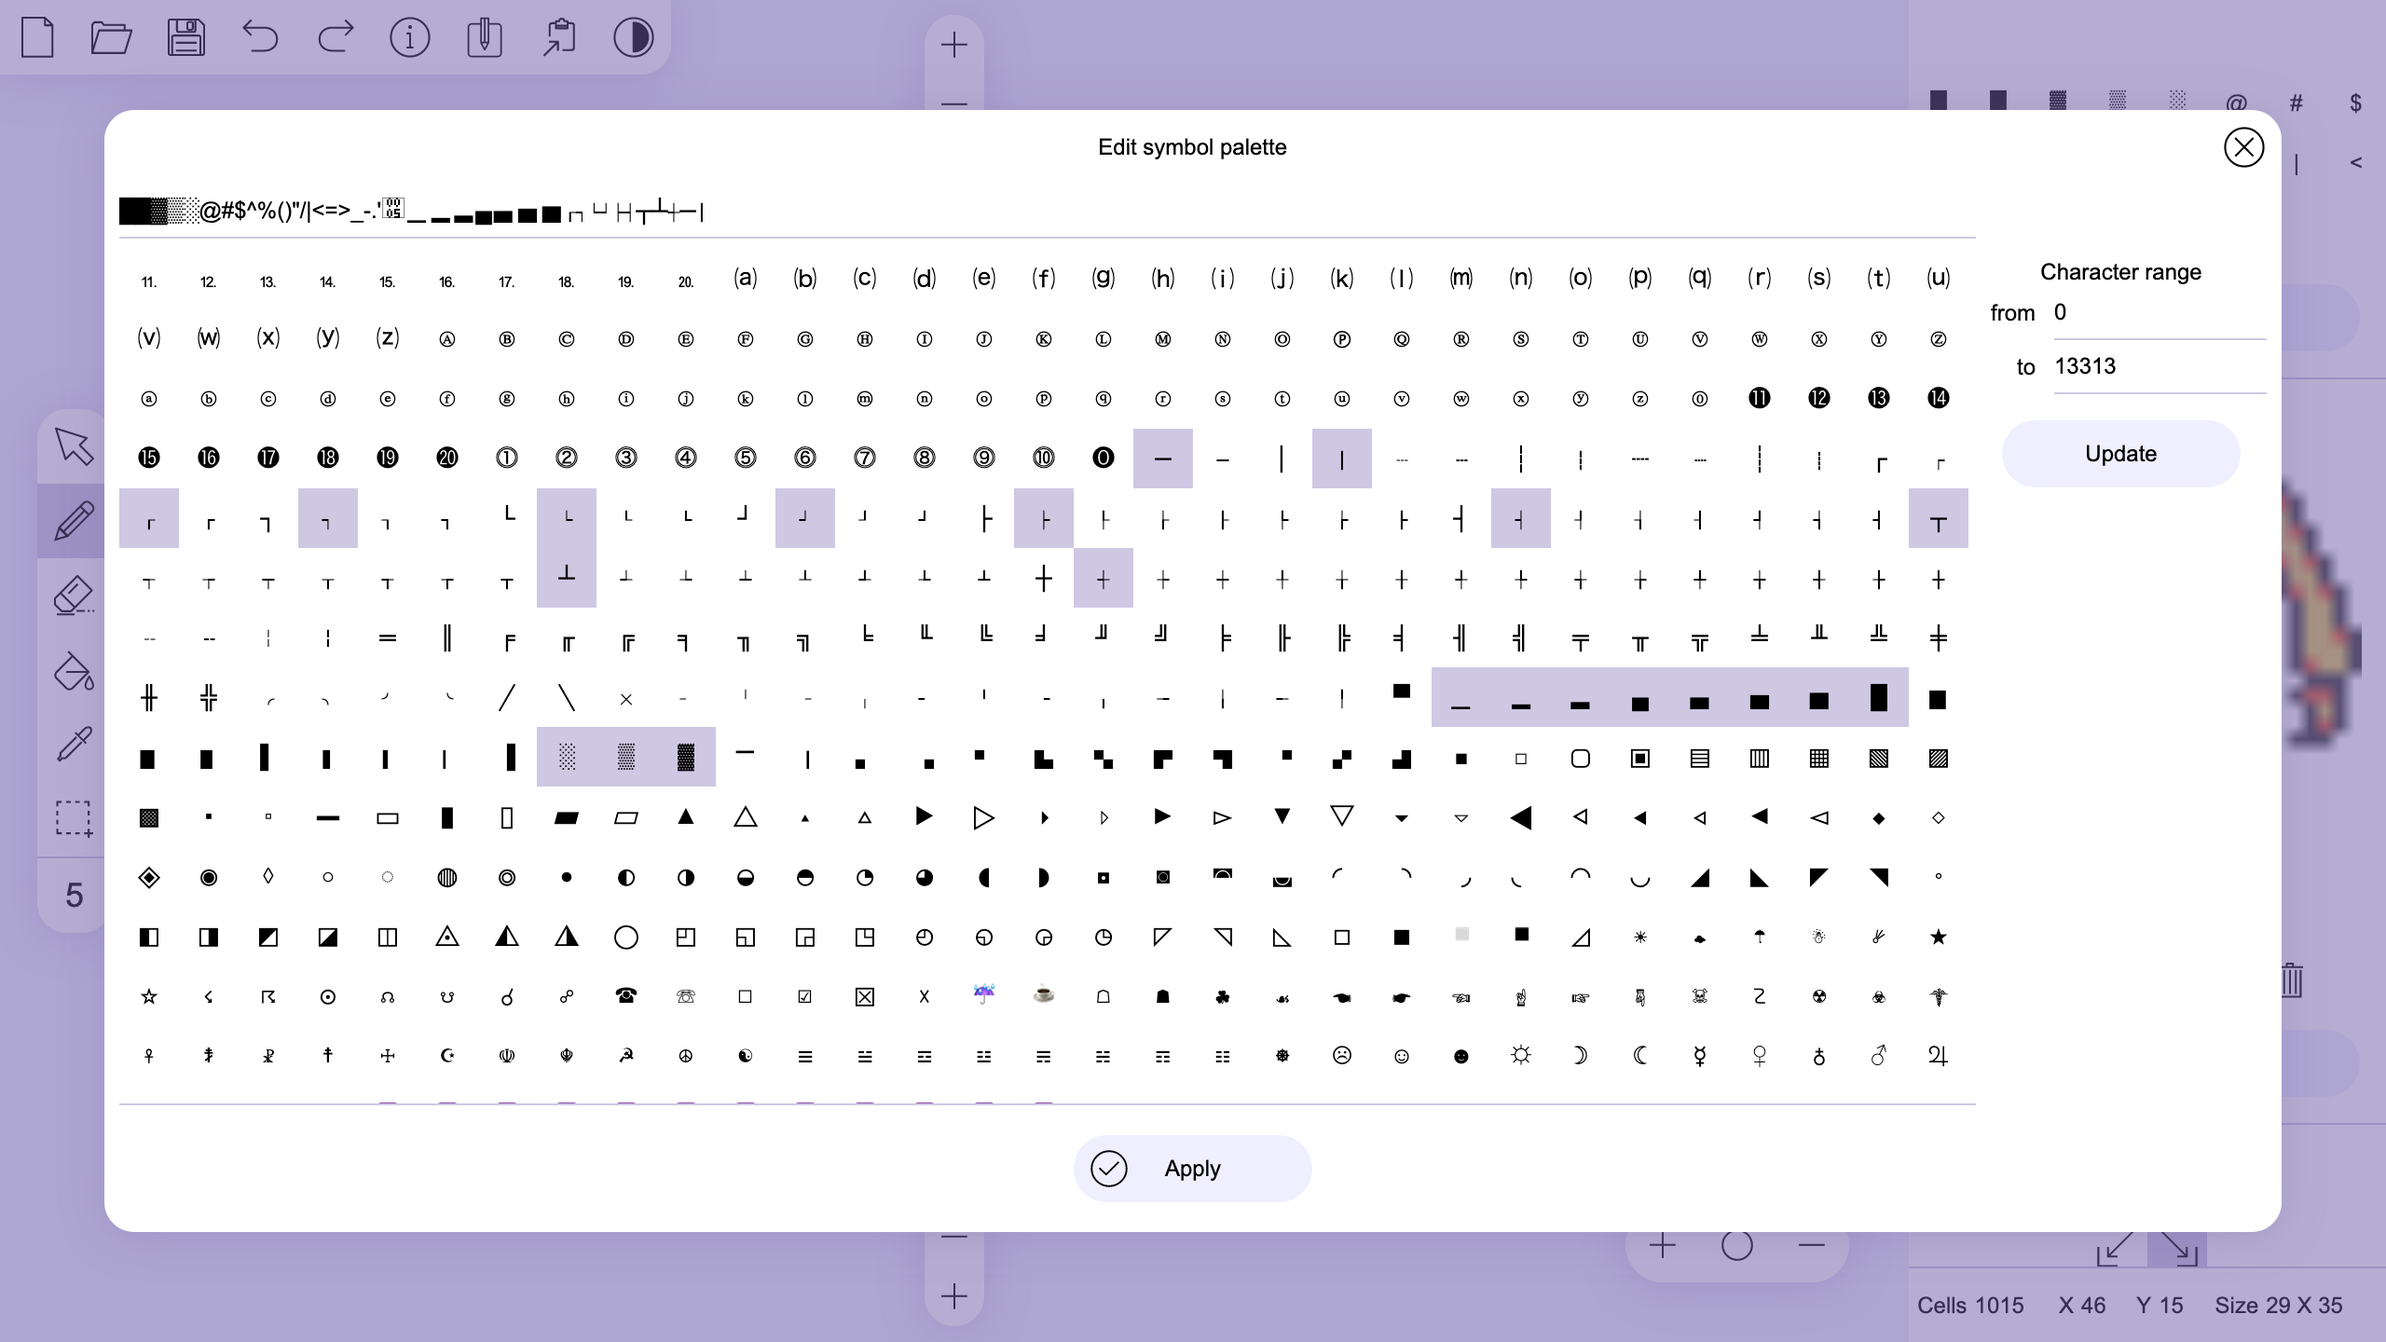
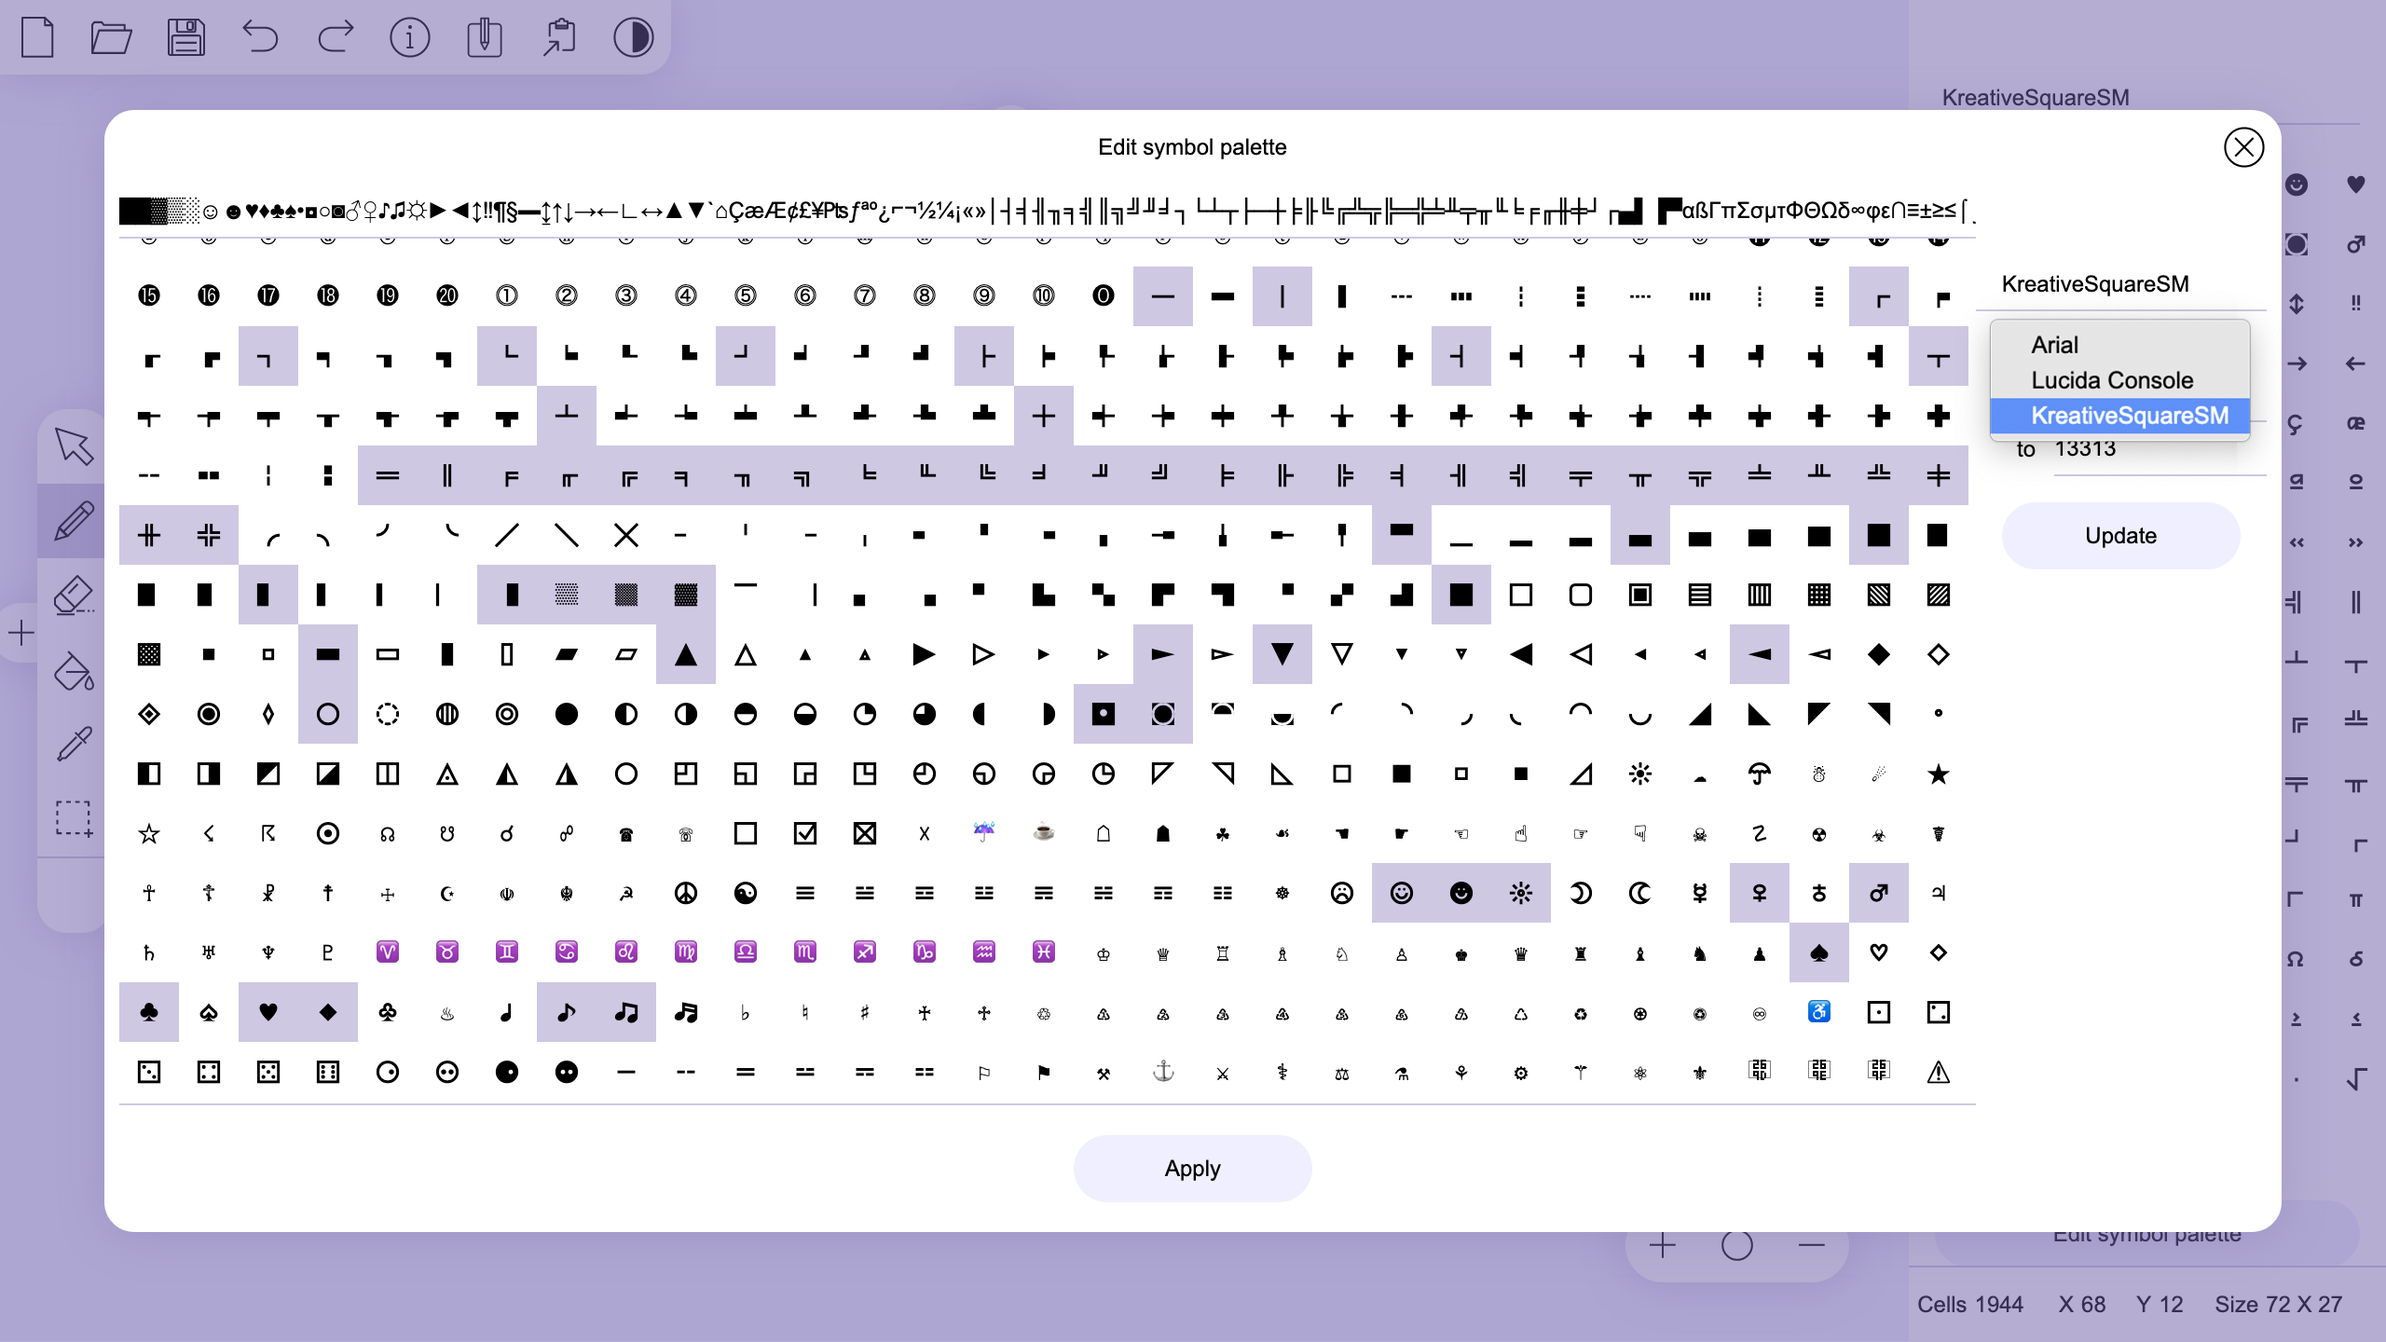
kirilllive

diff --git a/ascii_paint.html b/ascii_paint.html
@@ -32,6 +32,7 @@
     --ac:rgba(255,255,255,0.8);
     --at:rgba(240,240,240,0.8);
     --bh:#efefff;
+    --font:Arial;
 }
 .cls-2 {stroke:#000;stroke-width: 8px;}
 body{height:100vh;width:100vw;}
@@ -83,7 +84,7 @@ body{height:100vh;width:100vw;}
     border-width:1px;
     border-color:var(--at);
     background-color:var(--ac);
-    font-family:Lucida Console,monospace;
+    font-family:var(--font),monospace;
 }
 #asciicanvas td:hover{background-color:var(--cb);}
 #menu_panel{
@@ -154,6 +155,7 @@ body{height:100vh;width:100vw;}
     width:32px;
     display:grid;justify-content:center;align-items:center;
     float:left;
+    font-family:var(--font),monospace;
 }
 .symbol:hover{background-color:var(--cw);}
 .edittext{
@@ -236,6 +238,10 @@ body{height:100vh;width:100vw;}
 }
 #context_menu td{height:28px;padding-left:10px;}
 #context_menu td:hover{background-color:var(--cw);}
+input[type=range]{appearance:none;height:8px;background:var(--cw);outline:none;border-radius:8px;}
+input[type=range]::-webkit-slider-thumb{-webkit-appearance:none;appearance:none;width:20px;height:20px;border-radius:50%;background:var(--cb);cursor:pointer;border:3px solid var(--wn);}
+input[type=range]::-moz-range-thumb{-moz-appearance:none;appearance:none;width:16px;height:16px;border-radius:50%;background:var(--cb);cursor:pointer;border:3px solid var(--wn);}
+input[type=range]::-moz-range-progress{-moz-appearance:none;height:8px;background: var(--cb);outline:none;border-radius:8px;}
 </style>
 </head>
 <body onload="new_canvas(60,30);">
@@ -284,16 +290,24 @@ body{height:100vh;width:100vw;}
 </div>
 </td><td style="height:40px;background-color:var(--wn);"> </td></tr>
 <tr><td style="height:calc(100vh - 80px);">
-    <div id="right_menu" style="height:calc(100vh - 80px);width:256px;overflow-y:scroll;background-color:var(--wn);">
+    <div id="right_menu" style="height:calc(100vh - 80px);width:256px;overflow-y:scroll;background-color:var(--wn);text-align:center;">
+        <select id="fonts" class="input_text" style="width:calc(100% - 28px);margin-bottom:16px;" oninput='root_style.style.setProperty("--font",this.value);'>
+            <option value="Arial">Arial</option>
+            <option value="Lucida Console" selected>Lucida Console</option>
+        </select>
         <div id="symbols_view" style="display:inline-block;"></div>
         <div class="button" style="margin:14px;width:calc(100% - 28px);" onclick="modal_window(true,'palette_edit');getallChar()">Edit symbol palette</div>
         <div id="img_preview" style="display:none;width:100%;text-align:center;border-top:1px solid var(--cb);"><br>
-            <img style="width:90%;height:auto;border-radius:8px;text-align:center;cursor:pointer;image-rendering:pixelated;" onclick="file.click();"><br>
+            <img id="img_icon" style="width:90%;height:auto;border-radius:8px;text-align:center;cursor:pointer;image-rendering:pixelated;" onclick="file.click();"><br>
+            <div style="text-align:left;width:calc(100% - 28px);margin:14px 0 0 14px;">Brightness</div>
+            <input type="range" id="brightness" oninput="img_icon.style.filter='contrast('+contrast.value+'%) brightness('+this.value+'%)'" name="vol" min="0" max="500" value="100" step='1' style="margin:14px;width:calc(100% - 28px);">
+            <div style="text-align:left;width:calc(100% - 28px);margin-left:14px;">Contrast</div>
+            <input type="range" id="contrast" oninput="img_icon.style.filter='contrast('+this.value+'%) brightness('+brightness.value+'%)'" name="vol" min="0" max="500" value="100" step='1' style="margin:14px;width:calc(100% - 28px);">
             <table style="margin:14px;width:calc(100% - 28px);">
             <tbody>
                 <tr>
                     <td style="width:33%;" align="center"><input id="img_show" title="Show / Hide image" class="button_s show" checked onchange="frame.style.backgroundSize=(this.checked)?'100% 100%':'0% 0%'" type="checkbox"></td>
-                    <td style="" align="center"><div title="original image size" class="button_s icon_size" onclick="original_size();"></div></td>
+                    <td align="center"><div title="original image size" class="button_s icon_size" onclick="original_size();"></div></td>
                     <td style="width:33%;" align="center"><div title="Delete image" class="button_s icon_del" onclick="delete_img();"></div></td>
                 </tr>
             </tbody>
@@ -434,6 +448,9 @@ body{height:100vh;width:100vw;}
         <td><input type="text" class="input_text palette_simbols"></td>
         <td style="width:128px;" rowspan="3" valign="top">
         <table style="border-collapse: collapse; width: 100%; margin-top:40px;" border="1"><tbody><tr>
+        <td colspan="2" align="center">
+        <select id="fonts_palette" class="input_text" style="padding:0 10px;margin-bottom:16px;" oninput='root_style.style.setProperty("--font",this.value);'></select>
+        </td></tr>
         <td colspan="2" align="center">Character range</td></tr>
         <tr><td style="width:32px;padding-right:10px;" align="right">from</td>
         <td><input type="text" class="input_text range"></td></tr>
@@ -449,7 +466,7 @@ body{height:100vh;width:100vw;}
 <script>
 var range_font=[0,13313],palette="██▓▒░☺☻♥♦♣♠•◘○◙♂♀♪♫☼►◄↕‼¶§▬↨↑↓→←∟↔▲▼`⌂ÇæÆ¢£¥₧ƒªº¿⌐¬½¼¡«»│┤╡╢╖╕╣║╗╝╜╛┐└┴┬├─┼╞╟╚╔╩╦╠═╬╧╨╤╥╙╘╒╓╫╪┘┌▄▌▐▀αßΓπΣσµτΦΘΩδ∞φε∩≡±≥≤⌠⌡÷≈°∙⋅√ⁿ²■";//"██▓▒░@#$^%()\"/|<=>_-.'";
 var se,x1,x2,y1,y2;
-var db=[[],[],[],[],[],[],[],[]],tool=0,img,scale=1,back_up=[],state_num=0,tr,td,brush="*",frame=document.getElementById('asciicanvas'),canvas=frame.getElementsByTagName('tbody')[0],mouseclick=false,files=document.getElementById('file'),window_zone=document.getElementById("window_zone"),tool_zone=document.getElementById("tool_zone"),selected=[0,0,0,0],targetcell=[0,0],copydb="";
+var db=[[],[],[],[],[],[],[],[]],tool=0,img,scale=1,back_up=[],state_num=0,tr,td,brush="*",frame=document.getElementById('asciicanvas'),canvas=frame.getElementsByTagName('tbody')[0],mouseclick=false,files=document.getElementById('file'),window_zone=document.getElementById("window_zone"),tool_zone=document.getElementById("tool_zone"),selected=[0,0,0,0],targetcell=[0,0],copydb="",root_style=document.querySelector(':root');
 var contextmenushow=false,doc;
 if(asciicanvas.addEventListener){asciicanvas.addEventListener('contextmenu',function(e){menu_right(e);e.preventDefault();},false);}
 else{asciicanvas.attachEvent('oncontextmenu',function(){window.event.returnValue=false;});}
@@ -478,20 +495,18 @@ let color_ui=[
     ['#7f7f7f','#131a1e','rgba(0,0,0,0.5)','rgba(0,0,0,0.5)','#26343d','invert(90%)','#ddd','rgba(0,0,0,0.75)','rgba(25,25,25,0.7)','#b5a49b']
 ]
 function set_ui(t){
-    var r=document.querySelector(':root');
-    r.style.setProperty('--cb',color_ui[t][0]);
-    r.style.setProperty('--cw',color_ui[t][1]);
-    r.style.setProperty('--cs',color_ui[t][2]);
-    r.style.setProperty('--cm',color_ui[t][3]);
-    r.style.setProperty('--wn',color_ui[t][4]);
-    r.style.setProperty('--ft',color_ui[t][5]);
-    r.style.setProperty('--tx',color_ui[t][6]);
-    r.style.setProperty('--ac',color_ui[t][7]);
-    r.style.setProperty('--at',color_ui[t][8]);
-    r.style.setProperty('--bh',color_ui[t][9]);
+    root_style.style.setProperty('--cb',color_ui[t][0]);
+    root_style.style.setProperty('--cw',color_ui[t][1]);
+    root_style.style.setProperty('--cs',color_ui[t][2]);
+    root_style.style.setProperty('--cm',color_ui[t][3]);
+    root_style.style.setProperty('--wn',color_ui[t][4]);
+    root_style.style.setProperty('--ft',color_ui[t][5]);
+    root_style.style.setProperty('--tx',color_ui[t][6]);
+    root_style.style.setProperty('--ac',color_ui[t][7]);
+    root_style.style.setProperty('--at',color_ui[t][8]);
+    root_style.style.setProperty('--bh',color_ui[t][9]);
 }
 if(localStorage.getItem("them")){set_ui(1)}
-
 file.addEventListener('change',loadFiles);
 function canvas_scale(s){
     if(s==2){scale=Math.min(2,scale+0.05);}
@@ -581,13 +596,19 @@ function select_arr(){
     };
 }
 window.addEventListener("DOMContentLoaded", function(){
-    if (window.File&&window.FileReader&&window.FileList&&window.Blob) {
+    if (window.File&&window.FileReader&&window.FileList&&window.Blob){
         window.addEventListener("dragover",function(e){e.preventDefault();e.stopPropagation();});
         window.addEventListener("drop",function(e){
             e.preventDefault();
             e.stopPropagation();
             if(e.dataTransfer.files[0].type.includes("image")){
                 img=e.dataTransfer.files[0];show_img();
+            }else if(e.dataTransfer.files[0].name.includes(".ttf")||e.dataTransfer.files[0].name.includes(".woff2")||e.dataTransfer.files[0].name.includes(".woff")){
+                var n=e.dataTransfer.files[0].name.split('.',1);
+                root_style.style.setProperty("--font",n);
+                let font = new FontFace(n, "url("+URL.createObjectURL(e.dataTransfer.files[0])+")");
+                font.load().then(function(loadedFont){document.fonts.add(loadedFont);}).catch(function(error){});
+                add_font(n);
             }else{
                 var xmlhttp=new XMLHttpRequest();
                 xmlhttp.onreadystatechange=function(){if(this.readyState==4&&(this.status === 200 || this.status == 0)){db=this.responseText.split("\n");buildWorld();asciiview.scrollIntoView({block: "center",inline: "center"});back_up=[];state_save();toast(e.dataTransfer.files[0].name+' file is open')}}
@@ -597,10 +618,17 @@ window.addEventListener("DOMContentLoaded", function(){
             };
         });
     }
+    fonts.selectedIndex=0;
 });
 function loadFiles(e){
     if(e.target.files[0].type.includes("image")){
         img=e.target.files[0];show_img();
+    }else if(e.target.files[0].name.includes(".ttf")||e.target.files[0].name.includes(".woff2")||e.target.files[0].name.includes(".woff")){
+        var n=e.target.files[0].name.split('.',1);
+        root_style.style.setProperty("--font",n);
+        let font = new FontFace(n, "url("+URL.createObjectURL(e.target.files[0])+")");
+        font.load().then(function(loadedFont){document.fonts.add(loadedFont);}).catch(function(error){});
+        add_font(n);
     }else{
         var xmlhttp=new XMLHttpRequest();
         xmlhttp.onreadystatechange=function(){if(this.readyState==4&&(this.status === 200 || this.status == 0)){db=this.responseText.split("\n");buildWorld();asciiview.scrollIntoView({block: "center",inline: "center"});back_up=[];state_save();selected=[0,0,0,0];select_arr();toast(e.target.files[0].name+' file is open')}}
@@ -609,17 +637,26 @@ function loadFiles(e){
         xmlhttp.onerror=function(){if(this.status==0){}}
     };
 }
+function add_font(n){
+    var o=document.createElement('option');
+    o.value=n;
+    o.innerHTML=n;
+    fonts.appendChild(o);
+    fonts.selectedIndex=fonts.options.length-1
+}
 function getallChar(){
     var div,s,t,p,e=window_zone.getElementsByClassName('all_simbols')[0],r=window_zone.getElementsByClassName('palette_simbols')[0];
     r.value=palette;
     window_zone.getElementsByClassName('range')[0].value=range_font[0];
     window_zone.getElementsByClassName('range')[1].value=range_font[1];
+    fonts_palette.innerHTML=fonts.innerHTML;
+    fonts_palette.selectedIndex = fonts.selectedIndex;
     e.innerHTML="";
-    for (var c=range_font[0];c<range_font[1];c++){ //13313
+    for (var c=range_font[0];c<range_font[1];c++){
         s=String.fromCharCode(c)
         p=false;for(t=0;t<palette.length;t++){if(palette[t]==s){p=true;break}}
         label=document.createElement("label");
-        label.innerHTML="<input type='checkbox' onchange='addChar(this.checked,\""+s+"\");' "+((p)?"checked":"")+"><span>"+s+"</span>"
+        label.innerHTML="<input type='checkbox' onchange='addChar(this.checked,\""+s+"\");' "+((p)?"checked":"")+"><span class='symbol'>"+s+"</span>"
         label.classList.add("symbol_select");
         e.appendChild(label);
     }
@@ -633,6 +670,9 @@ function show_img(){
     img_preview.style.display="block";
     img_preview.getElementsByTagName('img')[0].src=URL.createObjectURL(img);
     img_show.checked=true;
+    img_icon.style.filter="contrast(100%) brightness(100%)";
+    brightness.value=100;
+    contrast.value=100;
 }
 function delete_img(){img_preview.style.display="none";frame.style.backgroundImage="none";}
 function addChar(d,c){var r=window_zone.getElementsByClassName('palette_simbols')[0];if(d){var i=r.selectionStart;r.value=r.value.substring(0, i)+c+r.value.substring(i);r.selectionStart=i+1;}else{r.value=r.value.replace(new RegExp(c,'g'),"")}}
@@ -641,6 +681,7 @@ function applyChar(){
     palette=window_zone.getElementsByClassName('palette_simbols')[0].value;
     localStorage.setItem("palette",palette);
     createPalette();localStorage.setItem("range_font",JSON.stringify(range_font));
+    fonts.selectedIndex=fonts_palette.selectedIndex;
 }
 function createPalette(){
     var div,s;
@@ -766,7 +807,8 @@ function img_to_ascii(){
         image.onload=function(){
             var tr=canvas.getElementsByTagName('tr');
             const w=tr[0].getElementsByTagName('td').length,h=tr.length;
-            preview.width=w;preview.height=h;context.drawImage(image,0,0,w,h);
+            img_icon.style.filter='contrast('+contrast.value+'%) brightness('+brightness.value+'%)'
+            preview.width=w;preview.height=h;context.filter=img_icon.style.filter;context.drawImage(image,0,0,w,h);
             const grayScales=convertToGrayScales(context,w,h);
             drawAscii(grayScales,w);
         };image.src=l.target.result;

diff --git a/README.md b/README.md
@@ -45,7 +45,8 @@ If you open a bitmap in the editor, it will be displayed on the background of th
 # Customizable symbol palette / シンボル・パレットの設定
 
 Using the built-in symbol table, you can get all the available symbols of a font in the selected range and use them to create your own symbol palette.
-You can specify a symbol to draw without using the palette, but using the keyboard, including using keyboard shortcuts for special symbols.
+You can specify a symbol to draw without using the palette, but using the keyboard, including using keyboard shortcuts for special symbols. Optionally, you can load multiple fonts from .ttf, .woff and .woff2 files and use them instead of the default font.
+
 
 「シンボル・パレットSymbol Palette」の設定画面(画面右上)で任意の文字コード範囲を指定すると、指定した範囲の文字が一覧表示されます。
 ここで選択した文字は作業用の「シンボル・パレット」に加わるので、目的に適したパレットを作ってみましょう。直接キーボードで入力することもできます。
